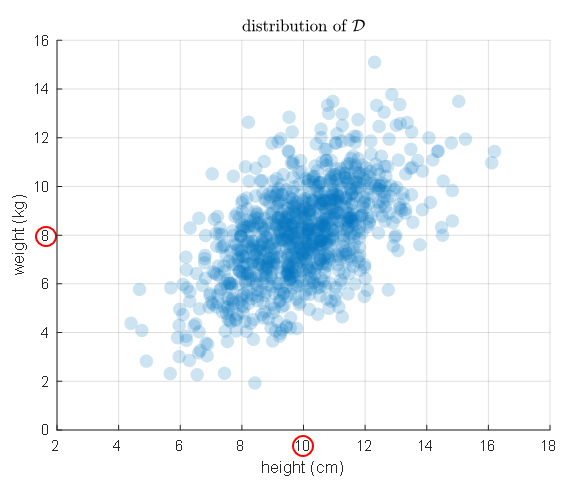
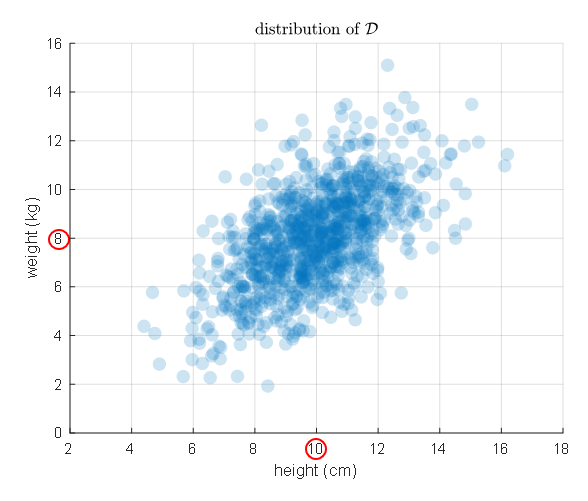
-

diff --git a/pics/2022-09-28-Mahalanobis_distance/pics.m b/pics/2022-09-28-Mahalanobis_distance/pics.m
@@ -31,7 +31,8 @@ set(gca,'visible','off')
 %% Cholesky 분해를 이용해 시각화하는 방법도 있음
 R = chol([3,2;2,4]);
 rng('default')
-X_new = randn(1000,2) * R;
+X = randn(1000,2);
+X_new = X * R;
 
 figure;
 
@@ -246,3 +247,25 @@ title('distribution of $$\mathcal{D}$$','interpreter','latex')
 
 xlim([2, 18])
 ylim([0, 16])
+
+
+figure('position',[1000, 558, 1448, 420]);
+subplot(1,2,1)
+scatter(height, weight,80, lines(1),'filled','MarkerFaceAlpha', 0.2);
+xlabel('height (cm)')
+ylabel('weight (kg)')
+grid on;
+title('distribution of $$\mathcal{D}$$','interpreter','latex')
+
+xlim([2, 18])
+ylim([0, 16])
+
+subplot(1,2,2)
+scatter(height-10, weight-8,80, lines(1),'filled','MarkerFaceAlpha', 0.2);
+xlabel('x_1')
+ylabel('x_2')
+grid on;
+title('distribution of $$X$$','interpreter','latex')
+
+xlim([2, 18]-10)
+ylim([0, 16]-8)

diff --git a/_posts/2022-09-28-Mahalanobis_distance.md b/_posts/2022-09-28-Mahalanobis_distance.md
@@ -20,7 +20,11 @@ tags: 선형대수학 통계학
 공분산 행렬에 대한 더 친절한 설명이 필요한 경우 아래의 포스트를 확인하십시오.
 
 * [주성분 분석(PCA)](https://angeloyeo.github.io/2019/07/27/PCA.html)
+  
+아래는 알고 계시면 도움이 되는 포스팅입니다.
 
+* [숄레스키 분해](https://angeloyeo.github.io/2021/06/17/Cholesky_decomposition.html)
+ 
 # 맥락을 고려한 상대적인 거리
 
 아래와 같이 두 벡터 $\vec x$와 $\vec y$를 생각해보자.
@@ -85,6 +89,51 @@ $$d_M = \sqrt{(\vec x-\vec y)^T\Sigma^{-1}(\vec x-\vec y)} % 식 (2)$$
 
 # 공분산 행렬과 그 역행렬의 의미
 
+## iid(independent and identically distributed) 정규분포 샘플 대한 기초적인 이해
+
+데이터의 구조에 대해 이해하기에 앞서 우선 iid(independent and identically distributed) 정규 분포 샘플의 성질에 대해 이해할 필요가 있다. 용어는 어려워 보이지만 차근히 들여다보면 어려울 것이 하나도 없다. iid는 랜덤 데이터 샘플을 추출해내는 가장 단순한 방법론 중 하나이다. 
+
+iid를 풀어서 설명하자면 다음과 같은 가정(assumption)이다
+
+* 추출된 데이터는 독립적으로 추출되었다. 
+* 추출된 데이터는 모두 동일한 확률 분포에서 추출되었다.
+
+또, 여기서 추출된 확률 분포가 정규 분포라고 가정할 수 있다면 추출된 샘플은 "indenepdent and identically distributed normal random variables다" 라고 말 할 수 있는 것이다.
+
+이번에는 $Z\in\mathbb{R}^{n\times d}$ 와 같이 여러개의 iid normal randon variables $z_1, \cdots ,z_d$를 좌우로 쌓아보자. 특히, 계산의 편의를 위해 표준 정규분포를 가정하자.
+
+$$Z =\begin{bmatrix} | & | & & |\\ z_1 & z_2 & \cdots & z_d\\ | & | & & |\end{bmatrix} % 식 (3)$$
+
+$$\text{where } z_1, z_2, \cdots, z_n \text{ are i.i.d. normal random variables with mean 0 and variance 1}\notag$$
+
+표준 정규분포에서 추출한 샘플들이므로 아래의 사실을 확인할 수 있다. 추출한 분포의 평균이 0이라는 점을 생각하면,
+
+$$\mathbb{E}\left[z_i\right]=0 \text{ for } i = 1, 2, \cdots, d % 식 (4)$$
+
+또한 추출한 분포의 분산이 1이라는 것을 생각하여 아래에 대해서도 생각해보자.
+
+$$\mathbb{E}\left[Z^TZ\right]
+
+= \mathbb{E}\left [\begin{bmatrix}
+  z_1^T z_1 & z_1^T z_2 & \cdots & z_1^Tz_d \\ 
+  z_2^T z_1 & z_2^T z_2 & \cdots & z_2^T z_d \\
+  \vdots    & \vdots    & \ddots & \vdots \\
+  z_d^T z_1 & z_d^T z_2 & \cdots & z_d^Tz_d
+  \end{bmatrix}\right ] % 식 (5)$$
+
+여기서 $i=1,2,\cdots, d$에 대해 $\mathbb{E}\left[z_i^T z_i \right]=1$ 이다. 또, $z_i$는 독립적으로 추출되었으므로 서로 다른 $i$와 $j$에 대해 $z_i^Tz_j=0$ 이다.
+
+따라서 식 (5)는
+
+$$식 (5) \Rightarrow \begin{bmatrix}
+  n & 0 & \cdots & 0 \\ 
+  0 & n & \cdots & 0 \\
+  \vdots    & \vdots    & \ddots & \vdots \\
+  0 & 0 & \cdots & n
+  \end{bmatrix} = n I % 식 (6)$$
+
+와 같다. 여기서 $I$는 $d\times d$ 차원의 단위행렬이다.
+
 ## 주어진 데이터를 이해하는 또 다른 방법
 
 화성에 사는 외계인 중 1000명을 임의로 선별해 키와 몸무게를 조사했고 이것을 표로 나타내보았다. 놀랍게도 평균키는 10cm이고 평균 몸무게는 8kg이었다고 한다. 표로 정리해보면 대략 아래와 같았다고 하자.
@@ -99,7 +148,7 @@ $$d_M = \sqrt{(\vec x-\vec y)^T\Sigma^{-1}(\vec x-\vec y)} % 식 (2)$$
 
 키와 몸무게를 정리한 데이터를 $\mathcal D$라고 하자. 또, 표본이 된 외계인의 수를 $n$이라고 하고 키와 몸무게와 같은 특징의 숫자를 $d$라고 하면 $\mathcal D$는 다음과 같은 행렬이라고도 볼 수 있다.
 
-$$\mathcal D\in\mathbb{R}^{n\times d}$$
+$$\mathcal D\in\mathbb{R}^{n\times d} % 식 (7)$$
 
 그리고 $\mathcal D$의 분포를 그려보면 다음과 같다. 가로축에는 키 데이터를 놓고 세로축에는 몸무게 데이터를 놓았다.
 
@@ -109,8 +158,13 @@ $$\mathcal D\in\mathbb{R}^{n\times d}$$
  그림 8. 화성 외계인들의 키와 몸무게 데이터의 분포
 </p>
 
-이번에는 임의의 1000명 외계인의 키와 몸무게라는 데이터를 이용했지만 어떤 데이터든지 분포를 확인할 수 있다. "새로운" 관점에서 데이터 분포를 이해해보기 위해 데이터셋의 각 feature 별 평균값을 모두 0으로 이동시키자. 
+이번에는 임의의 1000명 외계인의 키와 몸무게라는 데이터를 이용했지만 어떤 데이터든지 분포를 확인할 수 있다. "새로운" 관점에서 데이터 분포를 이해해보기 위해 데이터셋의 각 feature 별 평균값을 모두 0으로 이동시키자. 그리고 feature 별 평균값이 모두 0인 새로운 분포를 $X$라고 부르자.
 
+<p align = "center">
+  <img width = "400" src = "https://raw.githubusercontent.com/angeloyeo/angeloyeo.github.io/master/pics/2022-09-28-Mahalanobis_distance/pic_move_distribution.png">
+ <br>
+ 그림 9. 분포 중심의 이동
+</p>
 
 
 [//]:# (아래의 두 가지에 주목하면 글이 잘 진행될 수 있을 것 같다.)
